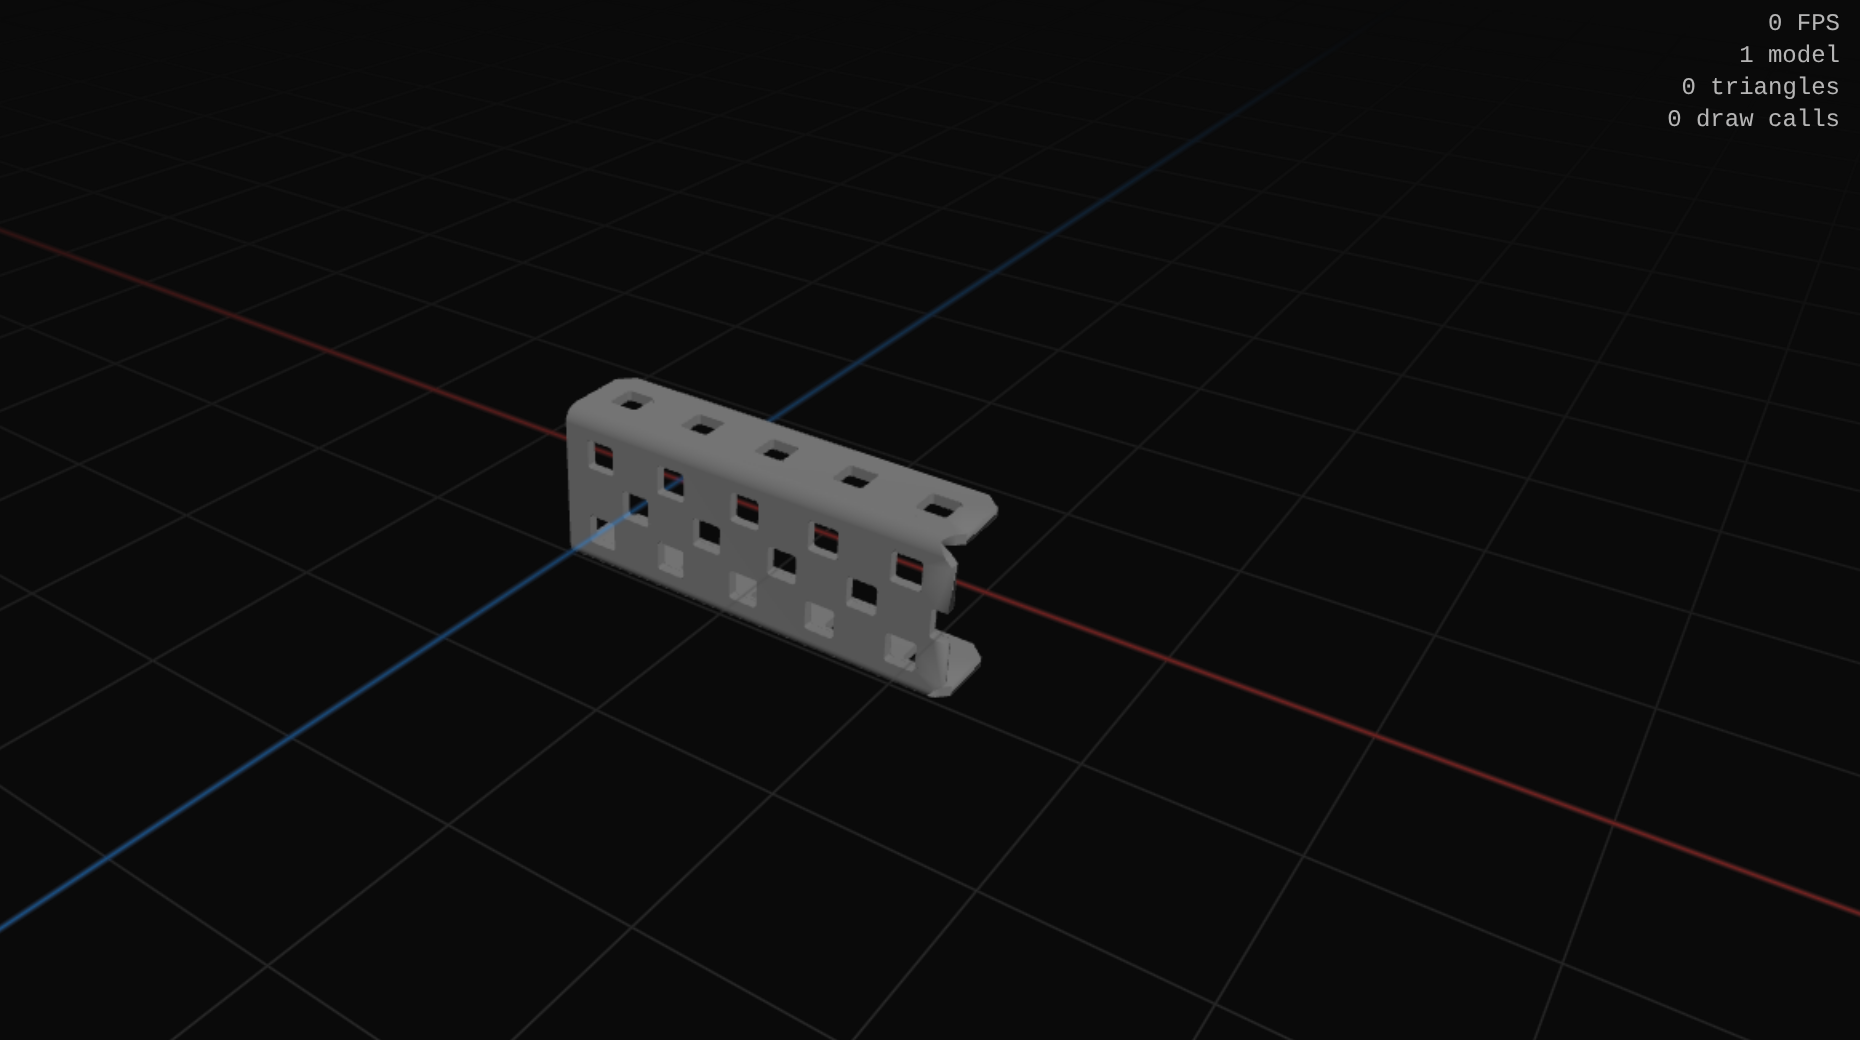
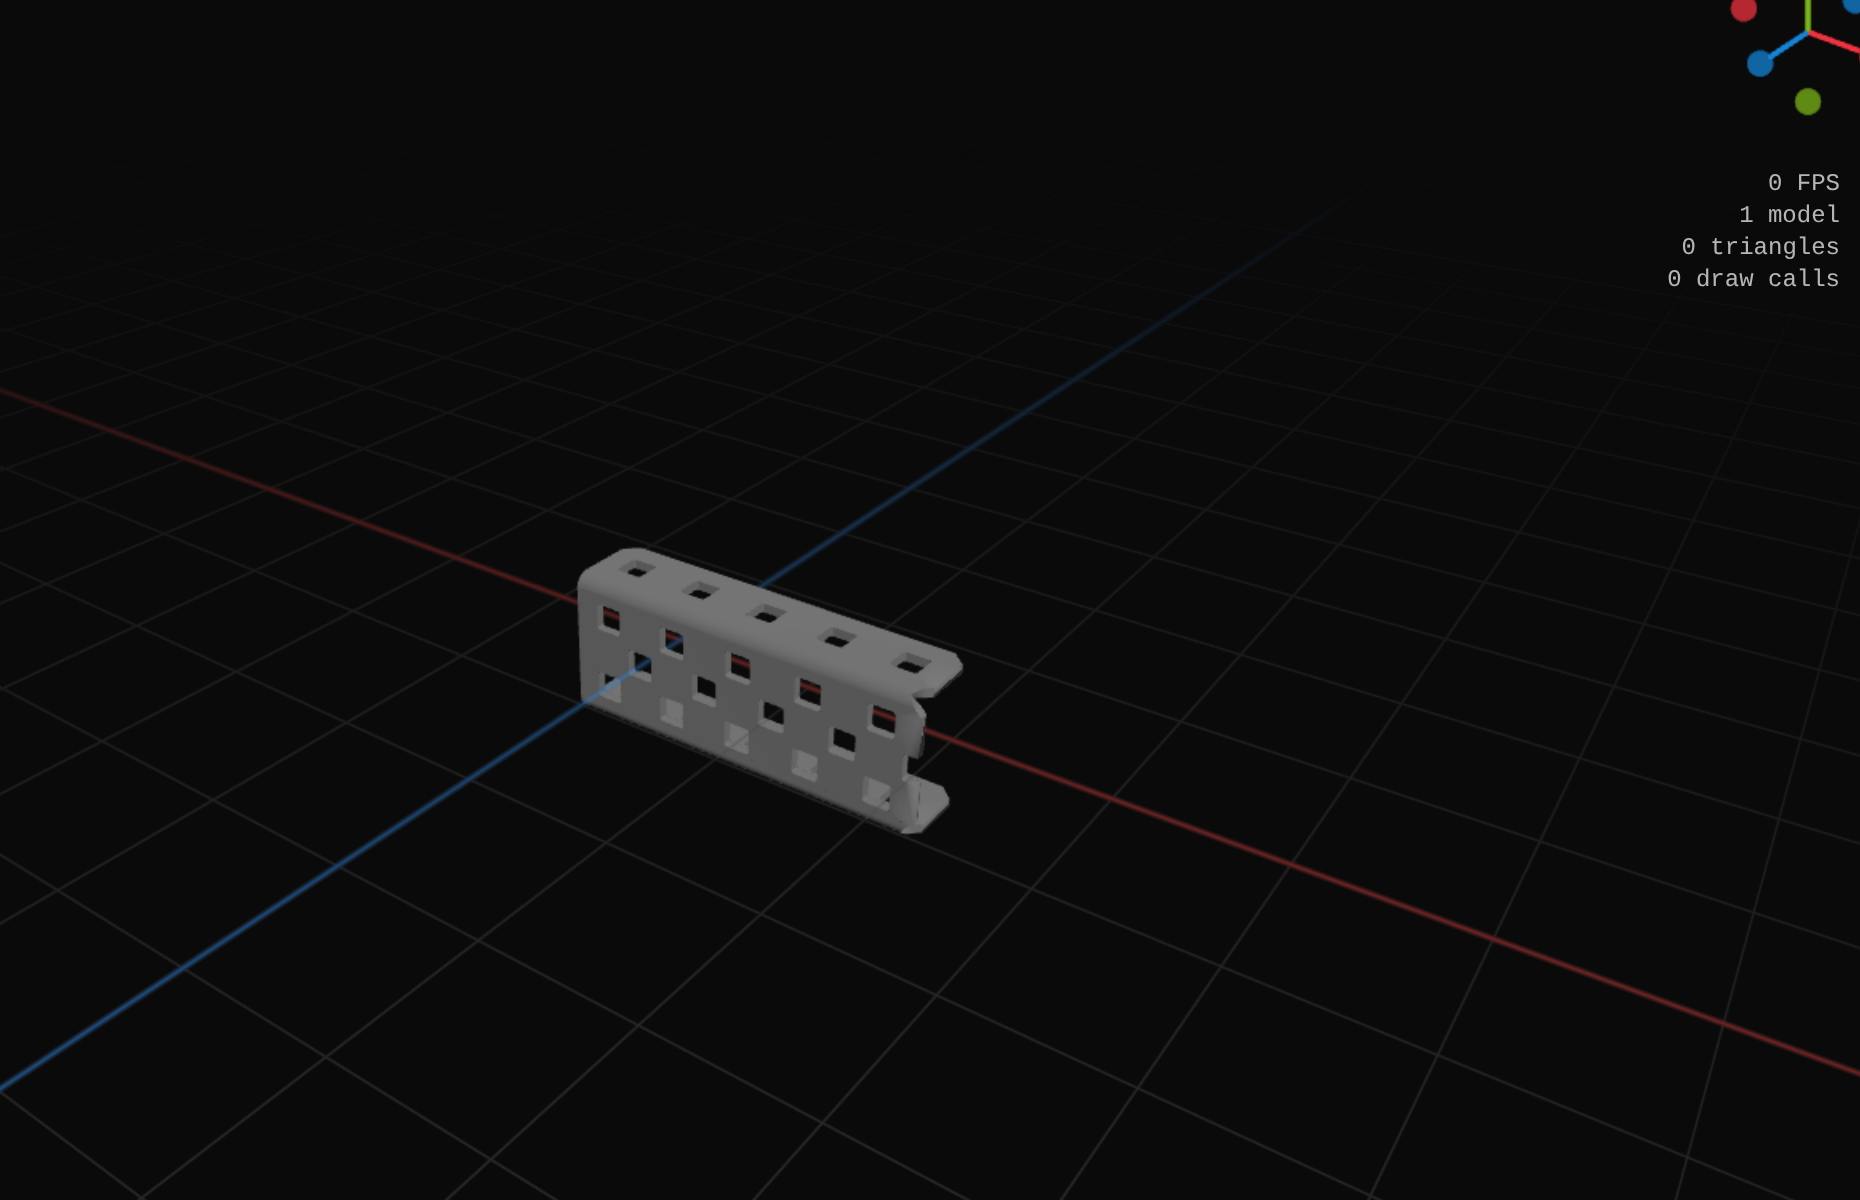
Match loading placeholders to part bounds

diff --git a/src/model/loadingBounds.ts b/src/model/loadingBounds.ts
@@ -1,0 +1,60 @@
+import { findPart, type PlacedPart } from './parts'
+
+export type LoadingBox = {
+  position: [number, number, number]
+  size: [number, number, number]
+}
+
+const FALLBACK_BOX: LoadingBox = {
+  position: [0, 0, 0],
+  size: [0.75, 0.75, 0.75],
+}
+
+function holeLength(value: string, fallback: number) {
+  return (Number(value) || fallback) * 0.5
+}
+
+export function loadingBoxForPart(part?: PlacedPart): LoadingBox {
+  if (!part) return FALLBACK_BOX
+  const definition = findPart(part.key)
+  if (!definition) return FALLBACK_BOX
+
+  if (definition.id === 'CCHL') {
+    const profile = Number(part.param1.split('x').at(-1)) || 2
+    return {
+      position: [0, 0, -0.225],
+      size: [holeLength(part.param2, 15), profile * 0.5, 0.55],
+    }
+  }
+
+  if (definition.id === 'ANGL') {
+    const leg = (Number(part.param1.split('x')[0]) || 1) * 0.5
+    return {
+      position: [0, 0, 0],
+      size: [holeLength(part.param2, 5), leg, leg],
+    }
+  }
+
+  if (definition.id === 'UCHL') {
+    return {
+      position: [0, -0.008, -0.477],
+      size: [holeLength(part.param2, 20), 1.142, 1.017],
+    }
+  }
+
+  if (definition.generator === 'plate') {
+    return {
+      position: [0, 0, 0],
+      size: [holeLength(part.param1, 5), holeLength(part.param2, 5), 0.046],
+    }
+  }
+
+  if (definition.generator === 'shaft') {
+    return {
+      position: [0, 0, 0],
+      size: [0.125, 0.125, Number(part.param2) || 6],
+    }
+  }
+
+  return FALLBACK_BOX
+}

diff --git a/src/components/scene/SceneParts.tsx b/src/components/scene/SceneParts.tsx
@@ -1,4 +1,4 @@
-import { useFBX } from '@react-three/drei'
+import { Edges, useFBX } from '@react-three/drei'
 import { Suspense, useMemo } from 'react'
 import {
   DoubleSide,
@@ -31,6 +31,7 @@ import {
 } from '@/model/chains'
 import { eulerToQuat } from '@/model/math'
 import { modelScaleFor } from '@/model/modelScale'
+import { loadingBoxForPart } from '@/model/loadingBounds'
 import { DEFAULT_COLOR } from '@/model/colors'
 import {
   channelProfileFromSize,
@@ -368,11 +369,13 @@ function MissingPart() {
   )
 }
 
-export function ModelLoadingPlaceholder() {
+export function ModelLoadingPlaceholder({ part }: { part?: PlacedPart }) {
+  const box = loadingBoxForPart(part)
   return (
-    <mesh raycast={noopRaycast}>
-      <boxGeometry args={[0.75, 0.75, 0.75]} />
-      <meshBasicMaterial color="#3EA6FF" transparent opacity={0.75} wireframe />
+    <mesh raycast={noopRaycast} position={box.position}>
+      <boxGeometry args={box.size} />
+      <meshBasicMaterial color="#3EA6FF" transparent opacity={0.08} depthWrite={false} />
+      <Edges color="#3EA6FF" lineWidth={1.5} />
     </mesh>
   )
 }
@@ -780,7 +783,7 @@ export function SceneParts({
             onMoveStart={onMoveStart}
             onMoveEnd={onMoveEnd}
           >
-            <Suspense fallback={<ModelLoadingPlaceholder />}>
+            <Suspense fallback={<ModelLoadingPlaceholder part={part} />}>
               <PlacedPartMesh
                 part={part}
                 showHoles={showHoles}

diff --git a/src/model/loadingBounds.test.ts b/src/model/loadingBounds.test.ts
@@ -1,0 +1,40 @@
+import { describe, expect, it } from 'vitest'
+import { loadingBoxForPart } from './loadingBounds'
+import { partKey, type PlacedPart } from './parts'
+import { PARTS } from './partsCatalog'
+
+function part(id: string, param1: string, param2: string): PlacedPart {
+  const definition = findPartById(id)
+  return {
+    instanceId: 1,
+    key: partKey(definition),
+    param1,
+    param2,
+    position: [0, 0, 0],
+    rotation: [0, 0, 0],
+    color: null,
+  }
+}
+
+function findPartById(id: string) {
+  const result = PARTS.find((definition) => definition.id === id)
+  if (!result) throw new Error(`Missing test part ${id}`)
+  return result
+}
+
+describe('loadingBoxForPart', () => {
+  it('matches generated C-Channel catalog dimensions', () => {
+    expect(loadingBoxForPart(part('CCHL', '1x2', '5'))).toEqual({
+      position: [0, 0, -0.225],
+      size: [2.5, 1, 0.55],
+    })
+    expect(loadingBoxForPart(part('CCHL', '1x5', '20')).size).toEqual([10, 2.5, 0.55])
+  })
+
+  it('scales other generated parts from their parameters', () => {
+    expect(loadingBoxForPart(part('ANGL', '3x3', '10')).size).toEqual([5, 1.5, 1.5])
+    expect(loadingBoxForPart(part('PLTE', '8', '3')).size).toEqual([4, 1.5, 0.046])
+    expect(loadingBoxForPart(part('SHFT', 'Normal', '6')).size).toEqual([0.125, 0.125, 6])
+    expect(loadingBoxForPart(part('UCHL', '2x2', '12')).size).toEqual([6, 1.142, 1.017])
+  })
+})

diff --git a/src/components/scene/PlacementPreview.tsx b/src/components/scene/PlacementPreview.tsx
@@ -243,7 +243,7 @@ export function PlacementPreview({
   return (
     <>
       <group ref={groupRef} userData={{ preview: true }}>
-        <Suspense fallback={<ModelLoadingPlaceholder />}>
+        <Suspense fallback={<ModelLoadingPlaceholder part={part} />}>
           <PlacedPartMesh part={part} preview />
         </Suspense>
       </group>
